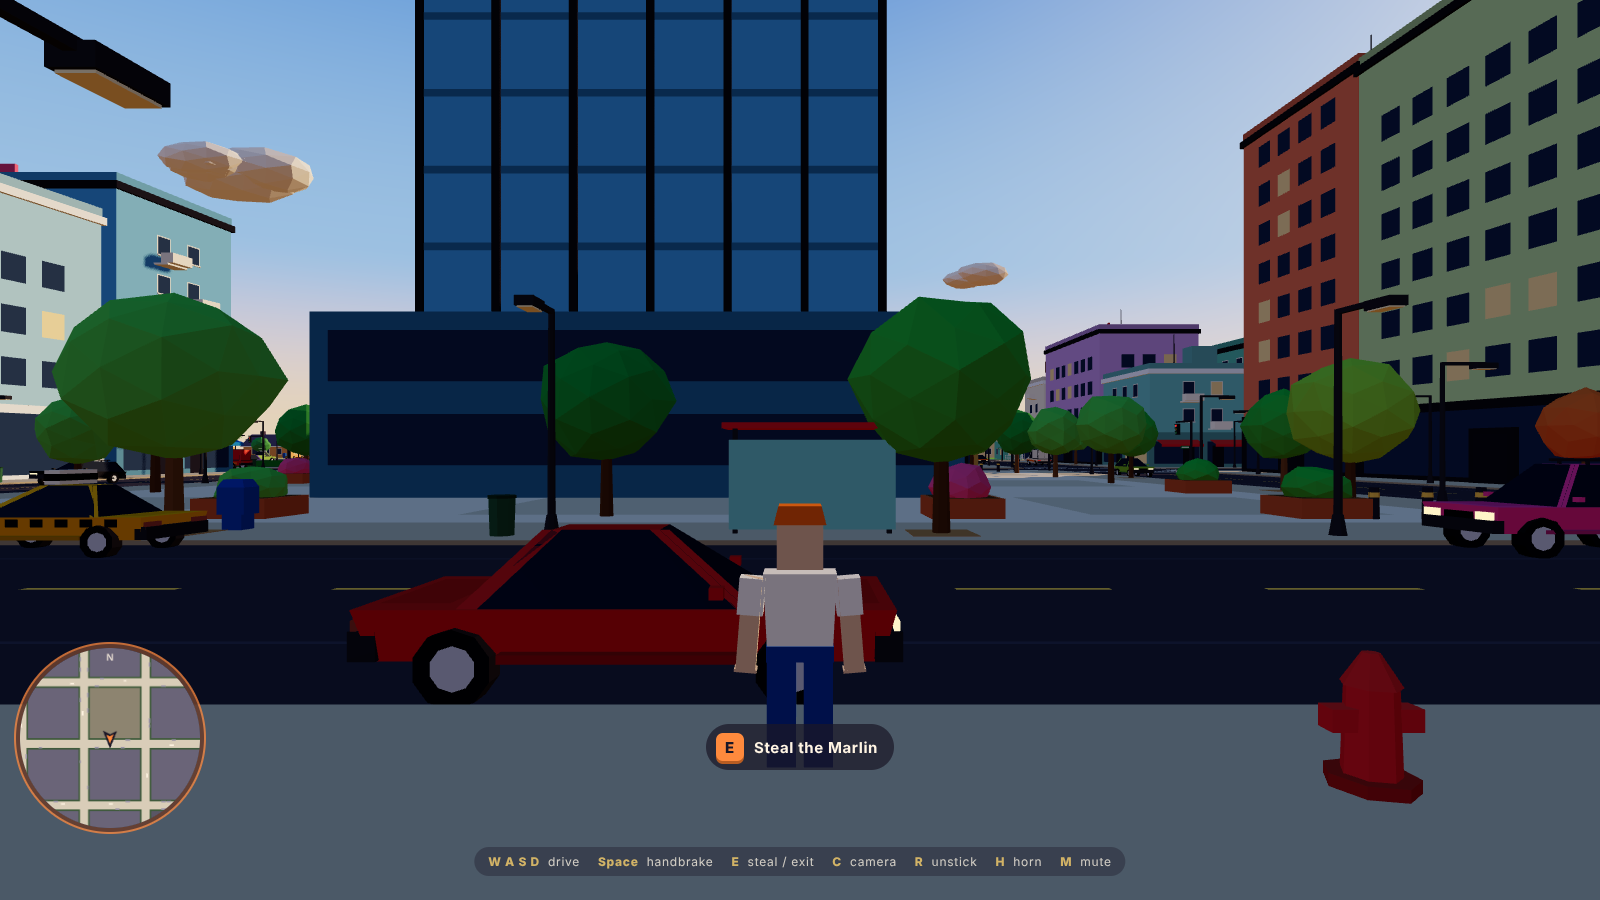
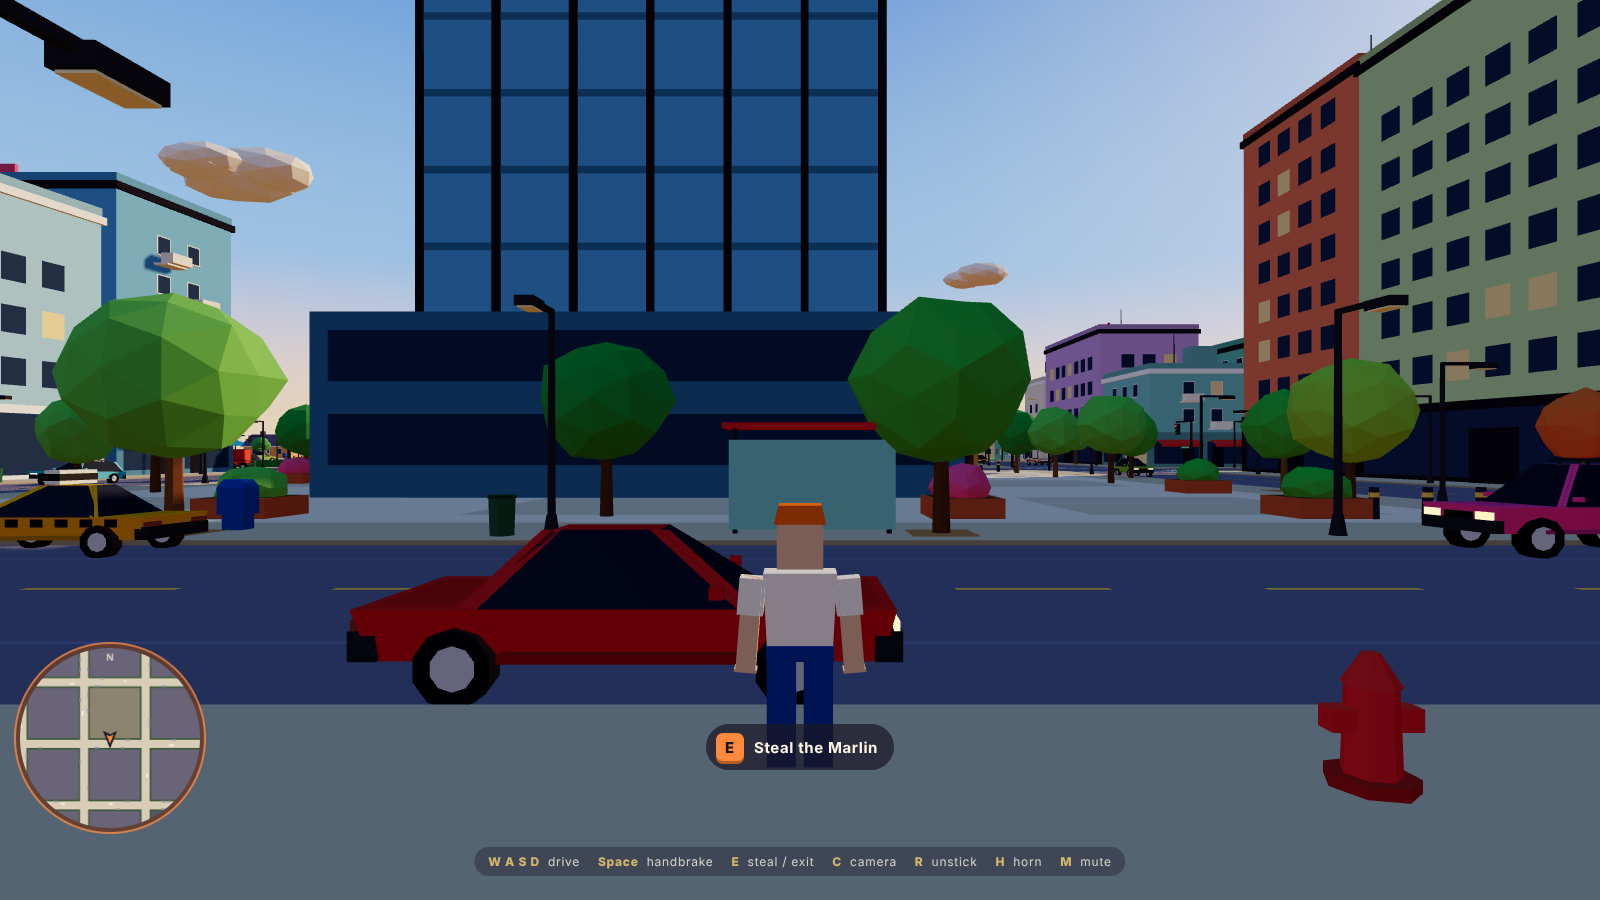
Real slides in the handling model, brighter streets, single-file build
Rework the integrator so inertia creates lateral slip (handbrake drifts,
crash spin-outs), clamp steering yaw rate to tire grip, make stuck
detection progress-based for AI and the demo bot, lighten asphalt so
shadowed streets and skid marks read, raise the sun slightly, add
npm run build (dist/hotwire.html), refresh screenshots and README.

Claude-Session: https://claude.ai/code/session_01WcpvxEXgBGrW4KkkvLpp9Q

diff --git a/src/vehicles/vehicle.js b/src/vehicles/vehicle.js
@@ -139,30 +139,38 @@ export class Vehicle {
     if (this.onSidewalk) a -= vF * 0.08;
     vF += a * h;
 
-    // lateral grip (capped so fast corners become real slides)
+    // yaw first: steering geometry pulls the yaw rate toward the bicycle model, limited to the
+    // yaw rate the tires can actually hold unless the handbrake is on; while sliding the
+    // coupling is weak so collision spins and handbrake turns persist
+    const wheelbase = s.axle[0] - s.axle[1];
+    const maxLatAcc = this.handbrake ? 9 : 26;
+    let target = (vF / wheelbase) * Math.tan(this.steer);
+    if (this.handbrake) target *= 1.35;
+    else { const lim = (maxLatAcc * 1.15) / Math.max(2, Math.abs(vF)); target = clamp(target, -lim, lim); }
+    // sliding: lateral slip, or a spin (from a crash) well beyond what the steering asks for
+    const sliding = Math.abs(vR) > 3.5 || (Math.abs(this.angVel - target) > 1.2 && Math.hypot(this.vx, this.vz) > 3);
+    let coupling = sliding ? 1.6 : (this.handbrake ? 4.5 : 7.5);
+    if (this.wrecked) coupling = 0.8;
+    this.angVel = damp(this.angVel, target, coupling, h);
+    this.angVel = clamp(this.angVel, -4.5, 4.5);
+    // world velocity keeps its direction while the body rotates (inertia creates slip)
+    const wx = fx * vF + rx * vR, wz = fz * vF + rz * vR;
+    this.yaw += this.angVel * h;
+    const fx2 = Math.sin(this.yaw), fz2 = Math.cos(this.yaw), rx2 = -Math.cos(this.yaw), rz2 = Math.sin(this.yaw);
+    vF = wx * fx2 + wz * fz2;
+    vR = wx * rx2 + wz * rz2;
+    // lateral grip (capped so fast corners and handbrake turns become real slides)
     let grip = this.handbrake ? s.drift : s.grip;
-    const sliding = Math.abs(vR) > 3.5;
-    if (sliding) grip *= 0.5;
+    if (sliding) grip *= 0.55;
     if (this.wrecked) grip = 2.5;
     let dvR = vR * (1 - Math.exp(-grip * h));
-    const maxLat = (this.handbrake ? 9 : 26) * h;
+    const maxLat = maxLatAcc * h;
     if (dvR > maxLat) dvR = maxLat; else if (dvR < -maxLat) dvR = -maxLat;
     vR -= dvR;
     this.slip = Math.abs(vR);
 
-    // yaw: steering geometry pulls the yaw rate toward the bicycle model; while sliding the
-    // coupling is weak so collision spins and handbrake turns persist
-    const wheelbase = s.axle[0] - s.axle[1];
-    const target = (vF / wheelbase) * Math.tan(this.steer) * (this.handbrake ? 1.3 : 1);
-    let coupling = sliding ? 1.6 : grip * 0.75;
-    if (this.wrecked) coupling = 0.8;
-    this.angVel = damp(this.angVel, alive || this.wrecked ? target : target, coupling, h);
-    this.angVel = clamp(this.angVel, -4.5, 4.5);
-    this.yaw += this.angVel * h;
-
     this.accF = (vF - this.prevVF) / h; this.accR = (vR - this.prevVR) / h;
     this.prevVF = vF; this.prevVR = vR;
-    const fx2 = Math.sin(this.yaw), fz2 = Math.cos(this.yaw), rx2 = -Math.cos(this.yaw), rz2 = Math.sin(this.yaw);
     this.vx = fx2 * vF + rx2 * vR; this.vz = fz2 * vF + rz2 * vR;
     this.x += this.vx * h; this.z += this.vz * h;
     this.wheelSpin += vF / s.wheelR * h;

diff --git a/src/render/effects.js b/src/render/effects.js
@@ -94,7 +94,7 @@ export class Effects {
       const a = Math.atan2(nx, nz) + this.range(-1.2, 1.2);
       const sp = speed * this.range(0.4, 1.3);
       const vx = Math.sin(a) * sp, vz = Math.cos(a) * sp, vy = this.range(1, 6);
-      const it = this.sparks.add({ x, y: y + this.range(0, 0.4), z, vx, vy, vz, life: this.range(0.25, 0.6), sx: 0.06, sy: 0.06, sz: 0.3, color: new THREE.Color(this.rnd() < 0.6 ? 0xffe28a : 0xffa040), q: new THREE.Quaternion() });
+      const it = this.sparks.add({ x, y: y + this.range(0, 0.4), z, vx, vy, vz, life: this.range(0.2, 0.5), sx: 0.035, sy: 0.035, sz: 0.18, color: new THREE.Color(this.rnd() < 0.6 ? 0xffe28a : 0xffa040), q: new THREE.Quaternion() });
       it.q.setFromUnitVectors(_axis.set(0, 0, 1), _p.set(vx, vy, vz).normalize());
     }
   }
@@ -142,7 +142,7 @@ export class Effects {
       uniforms: { time: { value: 0 }, fadeTime: { value: 45 } },
       vertexShader: `attribute float birth; attribute float alpha; varying float vA; uniform float time; uniform float fadeTime;
         void main() { float age = time - birth; vA = alpha * (1.0 - smoothstep(fadeTime * 0.5, fadeTime, age)); if (birth < 0.0) vA = 0.0; gl_Position = projectionMatrix * modelViewMatrix * vec4(position, 1.0); }`,
-      fragmentShader: `varying float vA; void main() { gl_FragColor = vec4(0.09, 0.08, 0.1, vA); }`,
+      fragmentShader: `varying float vA; void main() { gl_FragColor = vec4(0.012, 0.01, 0.016, vA); }`,
     });
     this.skidMesh = new THREE.Mesh(this.skidGeo, this.skidMat);
     this.skidMesh.frustumCulled = false;
@@ -209,7 +209,7 @@ export class Effects {
           const prev = v.skidPrev[w];
           if (prev) {
             const d = Math.hypot(wx - prev.x, wz - prev.z);
-            if (d > 0.12 && d < 3) { this.addSkidQuad(prev.x, prev.z, wx, wz, v.spec.wheelW * 0.95, clamp(0.25 + v.slip * 0.06, 0.25, 0.65)); v.skidPrev[w] = { x: wx, z: wz }; }
+            if (d > 0.12 && d < 3) { this.addSkidQuad(prev.x, prev.z, wx, wz, v.spec.wheelW * 0.95, clamp(0.45 + v.slip * 0.08, 0.45, 0.9)); v.skidPrev[w] = { x: wx, z: wz }; }
             else if (d >= 3) v.skidPrev[w] = { x: wx, z: wz };
           } else v.skidPrev[w] = { x: wx, z: wz };
           if (rear && v.slip > 4 && this.rnd() < dt * 18) this.emitDust(wx, wz, v.vx, v.vz, 0xd8d4d8);
@@ -243,7 +243,7 @@ export class Effects {
       it.x += it.vx * dt; it.y += it.vy * dt; it.z += it.vz * dt;
       if (it.y < 0.03) { it.y = 0.03; it.vy = -it.vy * 0.4; it.vx *= 0.7; it.vz *= 0.7; }
       it.q.setFromUnitVectors(_axis.set(0, 0, 1), _p.set(it.vx, it.vy, it.vz).normalize());
-      it.sz = 0.1 + Math.min(0.5, Math.hypot(it.vx, it.vy, it.vz) * 0.04);
+      it.sz = 0.06 + Math.min(0.28, Math.hypot(it.vx, it.vy, it.vz) * 0.025);
       return true;
     });
     this.debris.update(dt, (it, dt) => {

diff --git a/src/config.js b/src/config.js
@@ -13,17 +13,17 @@ export const CONFIG = {
   physics: { step: 1 / 120, maxSubSteps: 8, gravity: 22 },
   traffic: { target: 64, spawnRadius: 230, despawnRadius: 300, speed: 11.5 },
   parked: { density: 0.2, fill: 0.55, cullDistance: 300 },
-  sun: { azimuthDeg: 236, elevationDeg: 19, color: 0xffd9a6, intensity: 3.6 },
+  sun: { azimuthDeg: 236, elevationDeg: 24, color: 0xffd9a6, intensity: 3.4 },
   sky: { zenith: 0x2e6fd9, mid: 0x7fb6ff, horizon: 0xffd3a4, sunGlow: 0xffe9b8 },
-  hemi: { sky: 0xa6c8ff, ground: 0xc89a6a, intensity: 0.95 },
+  hemi: { sky: 0xa6c8ff, ground: 0xc89a6a, intensity: 1.15 },
   fog: { color: 0xffd3a4, near: 160, far: 640 },
   shadow: { mapSize: 4096, halfSize: 170, far: 700 },
   camera: { fov: 58, near: 0.4, far: 2200 },
 };
 
 export const PALETTE = {
-  road: 0x4b4653,
-  roadEdge: 0x3f3a47,
+  road: 0x7c788c,
+  roadEdge: 0x6a6580,
   marking: 0xf4ead7,
   markingYellow: 0xf1c15a,
   crosswalk: 0xf6efe1,
@@ -60,7 +60,7 @@ export const PALETTE = {
   fountain: 0x8fd0c9,
   towerGlass: [0x6fb4e3, 0x8fd0c9, 0xa9d6f5],
   // cars
-  carPaint: [0xe8402f, 0xf7b500, 0x2c8fe8, 0x27b06b, 0xff7a1a, 0xf2f2f2, 0x7a4bd6, 0xff5ea8, 0x1fc8d6, 0x242432, 0xd94f8c, 0x9ad04a],
+  carPaint: [0xe8402f, 0xf7b500, 0x2c8fe8, 0x27b06b, 0xff7a1a, 0xf2f2f2, 0x7a4bd6, 0xff5ea8, 0x1fc8d6, 0x5dd3ff, 0xd94f8c, 0x9ad04a],
   carGlass: 0x1e2a44,
   carTire: 0x1f1d26,
   carHub: 0xcfcfd6,

diff --git a/src/player/autopilot.js b/src/player/autopilot.js
@@ -50,10 +50,15 @@ export class Autopilot {
         const a = Math.atan2(Math.sin(angle), Math.cos(angle));
         v.setControls(1, 0, Math.max(-1, Math.min(1, a * 2.2)), false);
       } else g.traffic.drive(v, dt, g.simTime, null, { reckless: true, limit: this.limit });
-      // abandon a car that is stuck, nearly dead but refuses to die, or after a long joyride
-      this.stuckT = v.speed < 0.8 && this.driveT > 2 ? this.stuckT + dt : 0;
-      if ((v.health < 12 && this.stuckT > 2.5) || this.stuckT > 6 || this.driveT > 75) {
-        this.abandoned.add(v); input.pulse('interact'); this.driveT = 0; this.stuckT = 0; this.state = 'wait'; this.timer = 0;
+      // abandon a car that makes no progress, is nearly dead but refuses to die, or after a long joyride
+      this.progT = (this.progT || 0) + dt;
+      if (this.progT > 3) {
+        const moved = this.progX === undefined ? 10 : Math.hypot(v.x - this.progX, v.z - this.progZ);
+        this.progX = v.x; this.progZ = v.z; this.progT = 0;
+        this.stuckT = moved < 4 && this.driveT > 3 ? this.stuckT + 3 : 0;
+      }
+      if ((v.health < 12 && this.stuckT >= 3) || this.stuckT >= 9 || this.driveT > 75) {
+        this.abandoned.add(v); input.pulse('interact'); this.driveT = 0; this.stuckT = 0; this.progX = undefined; this.state = 'wait'; this.timer = 0;
       }
       return;
     }

diff --git a/src/main.js b/src/main.js
@@ -338,6 +338,7 @@ window.__hotwire = {
       player: { x: p.x, z: p.z, yaw: p.yaw, state: p.state },
       car: v ? { id: v.id, type: v.type, name: v.spec.name, x: v.x, z: v.z, yaw: v.yaw, kmh: v.kmh, speed: v.speed, health: v.health, wrecked: v.wrecked, lastImpact: { t: v.lastImpact.t, dv: v.lastImpact.dv, x: v.lastImpact.x, z: v.lastImpact.z }, fire: v.fire } : null,
       reachable: p.reachableCar()?.spec.name ?? null,
+      lastCar: p.lastCar ? { x: p.lastCar.x, z: p.lastCar.z, wrecked: p.lastCar.wrecked } : null,
       aiCount: game.traffic.aiCount(),
       ai: (() => { let moving = 0, stopped = 0, dazed = 0, sum = 0, n = 0, wrecked = 0; for (const c of game.vehicles.vehicles) { if (c.controller !== 'ai') continue; n++; sum += c.speed; if (c.wrecked) wrecked++; else if (c.ai?.state === 'dazed') dazed++; else if (c.speed < 0.3) stopped++; else moving++; } return { n, moving, stopped, dazed, wrecked, avgSpeed: n ? +(sum / n).toFixed(2) : 0 }; })(),
       aiCrashes: game.eventLog.filter((e) => e.type === 'crash' && !e.mine && e.j > 2000).length,

diff --git a/src/vehicles/traffic.js b/src/vehicles/traffic.js
@@ -241,9 +241,14 @@ export class Traffic {
     let throttle = clamp(err * 0.45, 0, 1), brake = clamp(-err * 0.35, 0, 1);
     if (desired < 0.3 && vF < 0.6) { throttle = 0; brake = 1; }
     v.setControls(throttle, brake, steer, false);
-    // stuck detection
-    if (desired > 2 && v.speed < 0.4) ai.stuck += h; else ai.stuck = Math.max(0, ai.stuck - h * 0.5);
-    if (ai.stuck > (reckless ? 2.2 : 4)) { ai.state = 'reverse'; ai.reverseT = 1.4; ai.revSteer = steer; ai.stuck = 0; }
+    // stuck detection: wanting to move but making no progress over a few seconds
+    ai.progT = (ai.progT || 0) + h;
+    if (ai.progT > 2.5) {
+      const moved = ai.progX === undefined ? 10 : Math.hypot(v.x - ai.progX, v.z - ai.progZ);
+      ai.progX = v.x; ai.progZ = v.z; ai.progT = 0;
+      if (desired > 2 && moved < 2.0) ai.stuck += 1; else ai.stuck = 0;
+    }
+    if (ai.stuck >= (reckless ? 1 : 2)) { ai.state = 'reverse'; ai.reverseT = 1.4; ai.revSteer = steer; ai.stuck = 0; ai.progX = undefined; }
   }
 
   _exitBlocked(v, lane) {

diff --git a/src/world/roads.js b/src/world/roads.js
@@ -235,7 +235,7 @@ export function buildRoadGeometry(net, emit, colliders, lampSlots) {
       for (const s of [-1, 1]) {
         const off = s * (net.road / 2 - net.parkWidth);
         const r = rightOf(seg.horizontal ? 0 : 1);
-        gb.slab(mx + r.x * off, Y_MARK - 0.005, mz + r.z * off, seg.horizontal ? len : 0.12, seg.horizontal ? 0.12 : len, 0x5a5563);
+        gb.slab(mx + r.x * off, Y_MARK - 0.005, mz + r.z * off, seg.horizontal ? len : 0.12, seg.horizontal ? 0.12 : len, 0x8c879f);
       }
     });
   }

diff --git a/screenshots/README.md b/screenshots/README.md
@@ -80,20 +80,20 @@ Street level at golden hour: long shadows, flat color, clean silhouettes
 
 ```json
 {
-  "crashes": 6,
-  "smashed": 0,
+  "crashes": 19,
+  "smashed": 3,
   "wrecks": 1,
-  "stolen": 2,
+  "stolen": 4,
   "topKmh": 84.2446417177064,
   "tris": 238894,
   "colliders": 1348,
   "props": 1362,
   "parking": 443,
   "lanes": 224,
-  "vehicles": 313,
-  "buildMs": 408,
-  "draws": 425,
-  "triangles": 826091,
+  "vehicles": 312,
+  "buildMs": 386,
+  "draws": 330,
+  "triangles": 812756,
   "finalState": "car",
   "errors": []
 }

diff --git a/README.md b/README.md
@@ -16,7 +16,8 @@ npm start          # serves the game at http://localhost:8080
 ```
 
 Any static file server works too (`npx serve .`, `python3 -m http.server`); there is no build
-step. Three.js is vendored into `vendor/`.
+step. Three.js is vendored into `vendor/`. `npm run build` additionally bundles everything into
+one self-contained `dist/hotwire.html` you can double-click or hand to someone.
 
 | Key | Action |
 | --- | --- |
